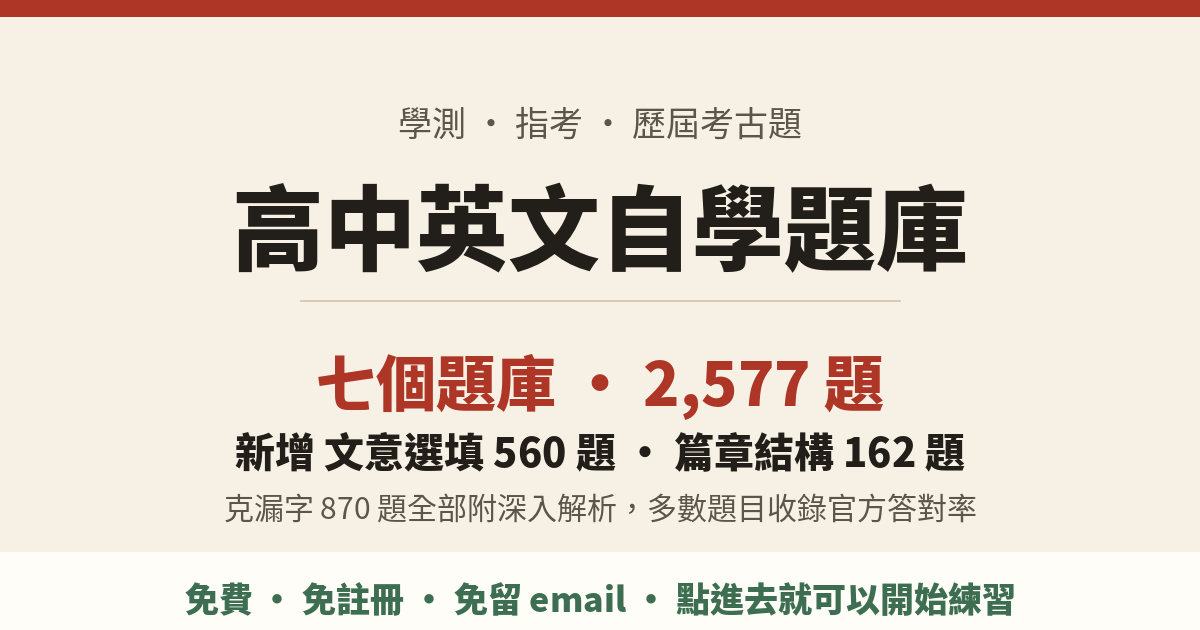
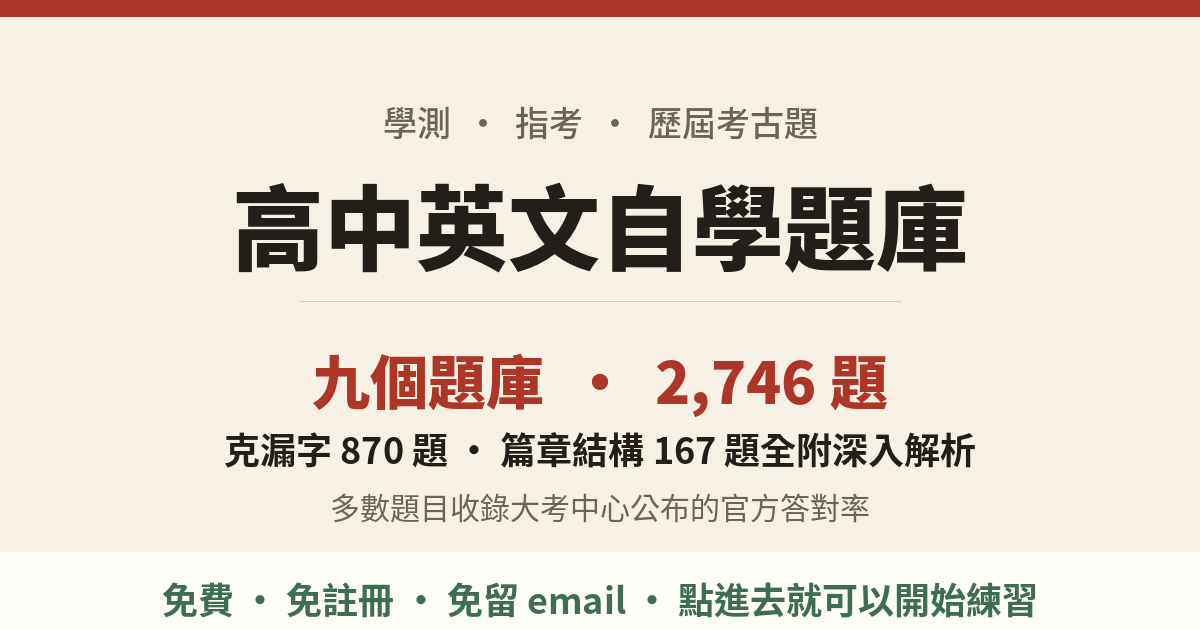
更新 hub 頁題庫數與社群預覽圖：八個題庫 2,684 題改為九個題庫 2,746 題
og-cover.png 重繪：圖上原寫「七個題庫 · 2,577 題」，改為「九個題庫 · 2,746 題」；
第二行原寫「篇章結構 162 題」，實測為 167 題（學測 32 ＋ 指考 135，167 題全數附解析），一併更正。

index.html 六處：
- 第 8、13、21 行 description／og:description／twitter:description
  「八個題庫、2,684 題」改為「九個題庫、2,746 題」，
  「學測克漏字 565 題全部附深入解析」改為「克漏字 870 題、篇章結構 167 題全部附深入解析」
- 第 18 行 og:image:alt 同步改為九個題庫、2,746 題
- 第 191 行內文同步改為九個題庫、共 2,746 題
- 第 15、22 行 og:image 與 twitter:image 快取戳 ?v=2 進 ?v=3

更正事由：站上導覽列列的是九個題庫（作文題目、混合題、篇章結構、學測單字、指考單字、
學測克漏字、指考克漏字、文意選填、中翻英），但文案只算了後八項 2,684 題，
漏計作文題 62 題。九項合計 2,746 題。

diff --git a/index.html b/index.html
@@ -5,21 +5,21 @@
 <meta name="viewport" content="width=device-width, initial-scale=1.0">
 <title>高中英文題庫入口 · 學測／指考</title>
 <!--OG-S-->
-<meta name="description" content="八個題庫、2,684 題學測與指考歷屆考古題。學測克漏字 565 題全部附深入解析，多數題目收錄大考中心公布的官方答對率。免費、免註冊，點進去就可以開始練習。">
+<meta name="description" content="九個題庫、2,746 題學測與指考歷屆考古題。克漏字 870 題、篇章結構 167 題全部附深入解析，多數題目收錄大考中心公布的官方答對率。免費、免註冊，點進去就可以開始練習。">
 <meta property="og:type" content="website">
 <meta property="og:site_name" content="高中英文自學題庫">
 <meta property="og:locale" content="zh_TW">
 <meta property="og:title" content="高中英文自學題庫｜學測、指考歷屆考古題">
-<meta property="og:description" content="八個題庫、2,684 題學測與指考歷屆考古題。學測克漏字 565 題全部附深入解析，多數題目收錄大考中心公布的官方答對率。免費、免註冊，點進去就可以開始練習。">
+<meta property="og:description" content="九個題庫、2,746 題學測與指考歷屆考古題。克漏字 870 題、篇章結構 167 題全部附深入解析，多數題目收錄大考中心公布的官方答對率。免費、免註冊，點進去就可以開始練習。">
 <meta property="og:url" content="https://staresto-create.github.io/JCEE-vocab-questions/">
-<meta property="og:image" content="https://staresto-create.github.io/JCEE-vocab-questions/og-cover.png?v=2">
+<meta property="og:image" content="https://staresto-create.github.io/JCEE-vocab-questions/og-cover.png?v=3">
 <meta property="og:image:width" content="1200">
 <meta property="og:image:height" content="630">
-<meta property="og:image:alt" content="高中英文自學題庫：八個題庫、2,684 題歷屆考古題">
+<meta property="og:image:alt" content="高中英文自學題庫：九個題庫、2,746 題歷屆考古題">
 <meta name="twitter:card" content="summary_large_image">
 <meta name="twitter:title" content="高中英文自學題庫｜學測、指考歷屆考古題">
-<meta name="twitter:description" content="八個題庫、2,684 題學測與指考歷屆考古題。學測克漏字 565 題全部附深入解析，多數題目收錄大考中心公布的官方答對率。免費、免註冊，點進去就可以開始練習。">
-<meta name="twitter:image" content="https://staresto-create.github.io/JCEE-vocab-questions/og-cover.png?v=2">
+<meta name="twitter:description" content="九個題庫、2,746 題學測與指考歷屆考古題。克漏字 870 題、篇章結構 167 題全部附深入解析，多數題目收錄大考中心公布的官方答對率。免費、免註冊，點進去就可以開始練習。">
+<meta name="twitter:image" content="https://staresto-create.github.io/JCEE-vocab-questions/og-cover.png?v=3">
 <!--OG-E-->
 <style>
   :root{
@@ -188,7 +188,7 @@
   <header>
     <div class="eyebrow">學測 · 指考 · 歷屆考古題</div>
     <h1>高中英文自學題庫</h1>
-    <p class="sub" style="line-height:1.9;"><b style="color:#221F1A;">完全免費、不用註冊、沒有廣告。</b><br>八個題庫，學測與指考歷屆考古題共 <b style="color:#9C2C1E;">2,684 題</b>。克漏字 870 題、篇章結構 167 題每一題都有深入解析，文意選填 560 格的逐格解析已全部完成，單字題 843 題每一題都有中文詳解；<b style="color:#221F1A;">混合題與中翻英兩站的解析仍在陸續建置中</b>。每張卡片另標明該站的題數與解析範圍。<br>同一個用法在不同年份反覆出現，解析裡會順帶告訴你哪幾年還考過同一件事，兩題擺在一起看，判準才完整。<br>另有一個<b style="color:#221F1A;">歷屆作文題目索引</b>，83 至 115 學年度共 62 題，供查閱不作答，不計入上面的題數。往下捲有一段<a href="#rules" style="color:#9C2C1E; font-weight:700;">五個詞</a>，講的是這幾種題型共通的地方。<br>我是英文老師，第一次用 GitHub 做網站，做得陽春，但題目和解析都是認真整理的，裡面也放了這些年教書、考試和出題累積下來的一點心得。<b style="color:#3E6E52;">歡迎自由分享。</b></p>
+    <p class="sub" style="line-height:1.9;"><b style="color:#221F1A;">完全免費、不用註冊、沒有廣告。</b><br>九個題庫，學測與指考歷屆考古題共 <b style="color:#9C2C1E;">2,746 題</b>。克漏字 870 題、篇章結構 167 題每一題都有深入解析，文意選填 560 格的逐格解析已全部完成，單字題 843 題每一題都有中文詳解；<b style="color:#221F1A;">混合題與中翻英兩站的解析仍在陸續建置中</b>。每張卡片另標明該站的題數與解析範圍。<br>同一個用法在不同年份反覆出現，解析裡會順帶告訴你哪幾年還考過同一件事，兩題擺在一起看，判準才完整。<br>另有一個<b style="color:#221F1A;">歷屆作文題目索引</b>，83 至 115 學年度共 62 題，供查閱不作答，不計入上面的題數。往下捲有一段<a href="#rules" style="color:#9C2C1E; font-weight:700;">五個詞</a>，講的是這幾種題型共通的地方。<br>我是英文老師，第一次用 GitHub 做網站，做得陽春，但題目和解析都是認真整理的，裡面也放了這些年教書、考試和出題累積下來的一點心得。<b style="color:#3E6E52;">歡迎自由分享。</b></p>
   </header>
 
   <nav class="quicknav"><span style="color:var(--ink-soft); font-weight:400;">點一下跳到題庫</span><span class="sep">·</span><a href="https://staresto-create.github.io/essay-prompts/">作文題目</a><span class="sep">·</span><a href="https://staresto-create.github.io/mixed-format/">混合題</a><span class="sep">·</span><a href="https://staresto-create.github.io/discourse-structure/">篇章結構</a><span class="sep">·</span><a href="https://staresto-create.github.io/JCEE-vocab-questions/gsat/">學測單字</a><span class="sep">·</span><a href="https://staresto-create.github.io/JCEE-vocab-questions/zhikao/">指考單字</a><span class="sep">·</span><a href="https://staresto-create.github.io/grammar-cloze-test/">學測克漏字</a><span class="sep">·</span><a href="https://staresto-create.github.io/zhikao-cloze-test/">指考克漏字</a><span class="sep">·</span><a href="https://staresto-create.github.io/passage-completion/">文意選填</a><span class="sep">·</span><a href="https://staresto-create.github.io/JCEE-vocab-questions/translate/">中翻英</a></nav>
